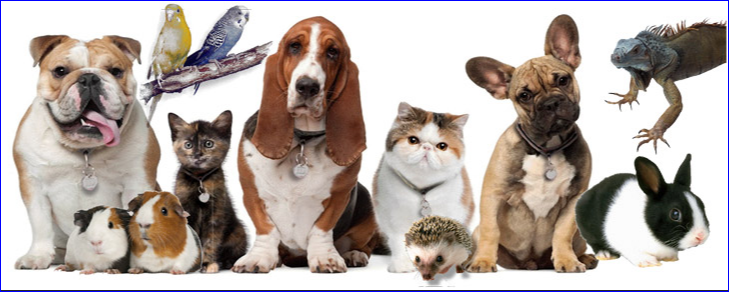
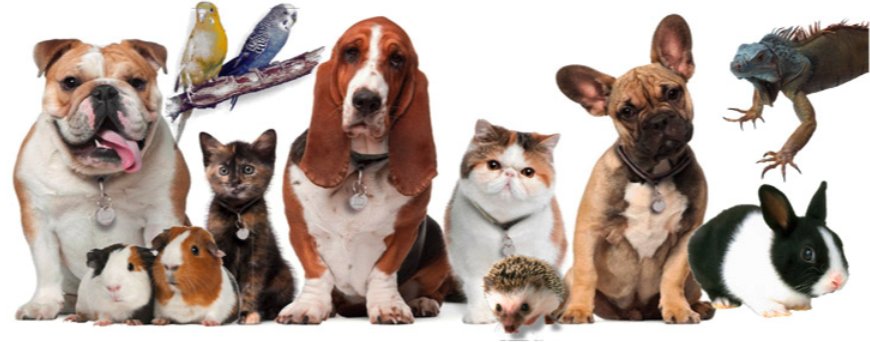
update

diff --git a/public/css/style.css b/public/css/style.css
@@ -26,11 +26,12 @@
   header {
     padding: 40px;
     text-align: center;
+    background-color: white;
     background-image: url("../images/animals_bg.PNG");
     background-repeat: no-repeat;
     background-position: center top;
+    /* background-size: cover; */
     color: var(--secondary);
-    border-bottom-style: solid;
   }
   
   main {
